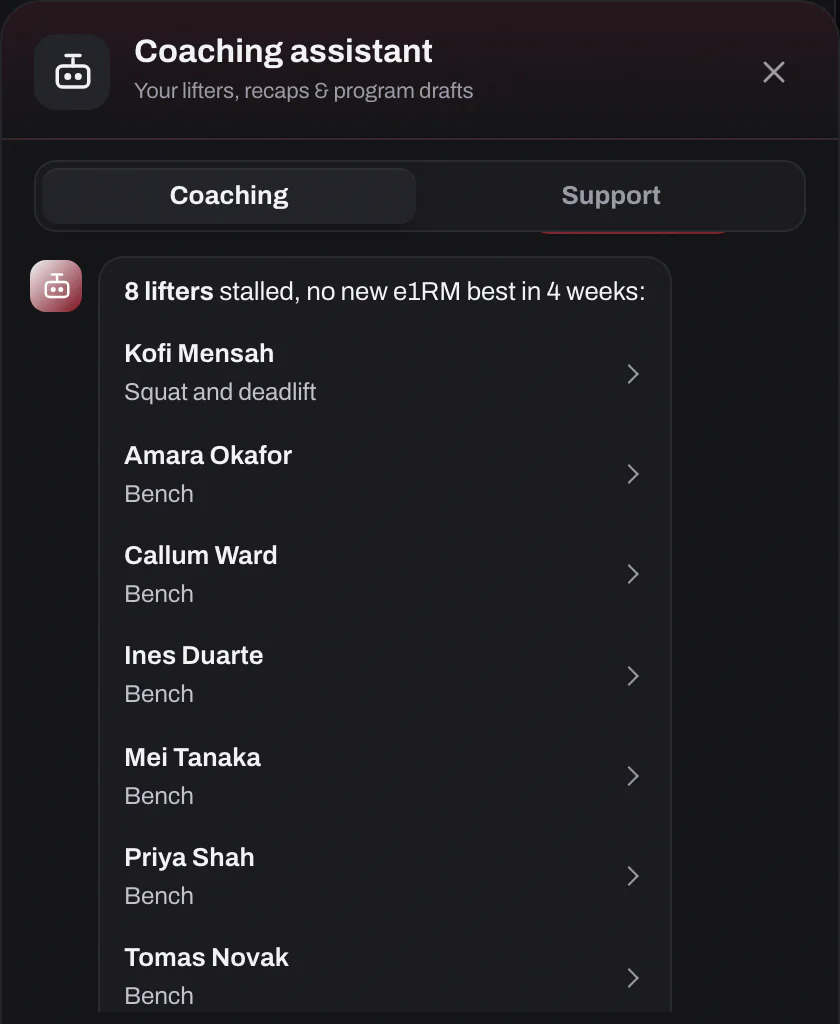
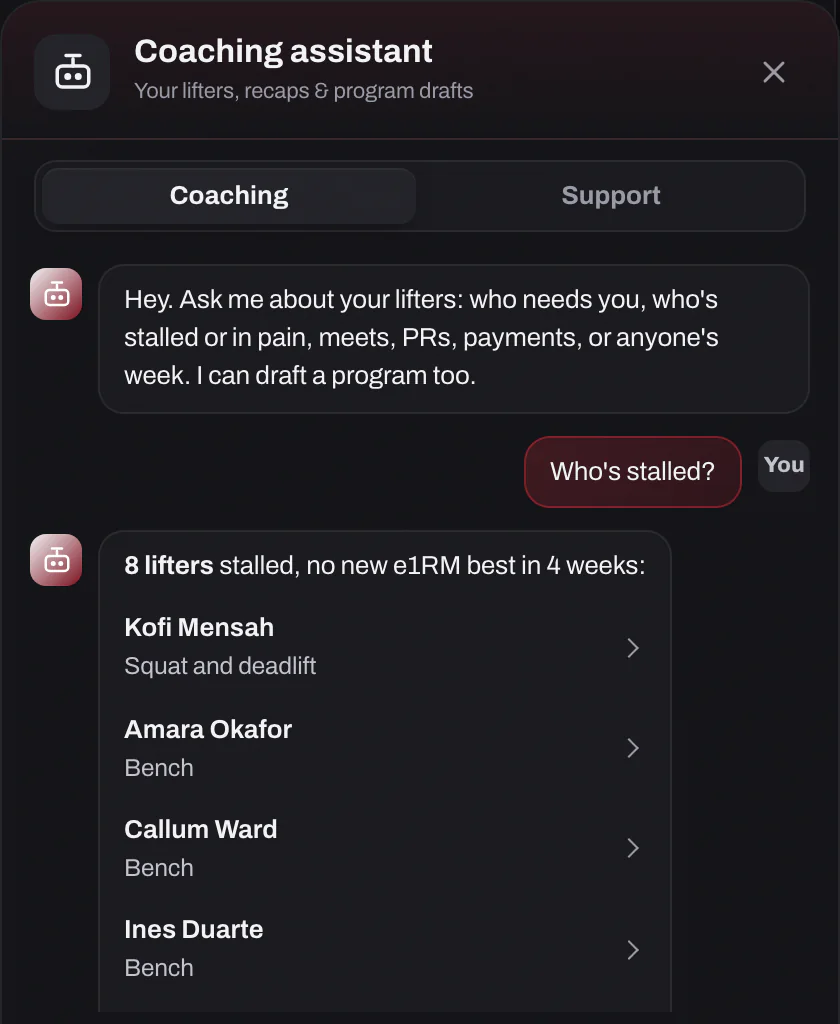
Coach tile: Ask AI shown with the question asked (Who's stalled?) above its answer, instead of a crop that left the question bubble peeking as a red sliver; the closing coach link underlines in ink so the red stays on Start free alone.

diff --git a/index.html b/index.html
@@ -594,7 +594,7 @@
       </article>
       <article class="s-tile s-tile-ai">
         <div class="s-tile-copy"><h3>Ask about your roster</h3><p>Who's stalled, who's hurting, who owes you. Answered from your own numbers.</p></div>
-        <div class="s-tile-shot"><img src="site-img/coach-askai.webp" width="420" height="512" alt="Ask AI answering Who's stalled: eight lifters with no new e1RM best in four weeks, each name opening the lifter" loading="lazy" decoding="async"></div>
+        <div class="s-tile-shot"><img src="site-img/coach-askai.webp" width="420" height="512" alt="Ask AI, asked Who's stalled: eight lifters with no new e1RM best in four weeks, each name opening the lifter" loading="lazy" decoding="async"></div>
       </article>
       <article class="s-tile s-tile-odds">
         <div class="s-tile-copy"><h3>Attempts with odds</h3><p>Safe, balanced or bold, from the block's top sets. Every attempt shows its odds as you type.</p></div>

diff --git a/landing.css b/landing.css
@@ -522,7 +522,8 @@ body.site :is(#coaches, #marketplace-teaser, #pricing)::before { display: none; 
 body.site .s-cta h2 { margin: 0 auto 8px; font-stretch: 125%; font-weight: 800; font-size: clamp(2.5rem, 5.4vw, 4.3rem); letter-spacing: -0.03em; line-height: 1; }
 .s-cta .s-actions { margin-top: 34px; }
 .s-cta-aux { margin-top: 22px; color: var(--text-3); font-size: 0.96rem; }
-.s-cta-aux .s-link { color: var(--text); }
+.s-cta-aux .s-link { color: var(--text); text-decoration-color: var(--line-2); }   /* one red per screen: the button */
+.s-cta-aux .s-link:hover { text-decoration-color: var(--text-2); }
 .s-cta.is-armed .s-cta-mark :is(.m1, .m2, .m3) { opacity: 0; transform: translateX(9px); }
 .s-cta.is-in .s-cta-mark :is(.m1, .m2, .m3) { opacity: 1; transform: none; transition: opacity 380ms var(--l-ease), transform 420ms var(--l-ease); }
 .s-cta.is-in .s-cta-mark .m2 { transition-delay: 90ms; }
